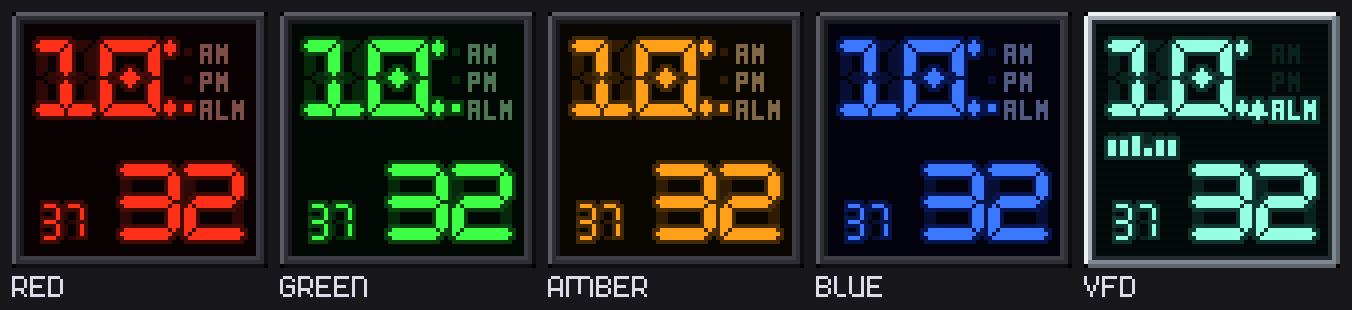
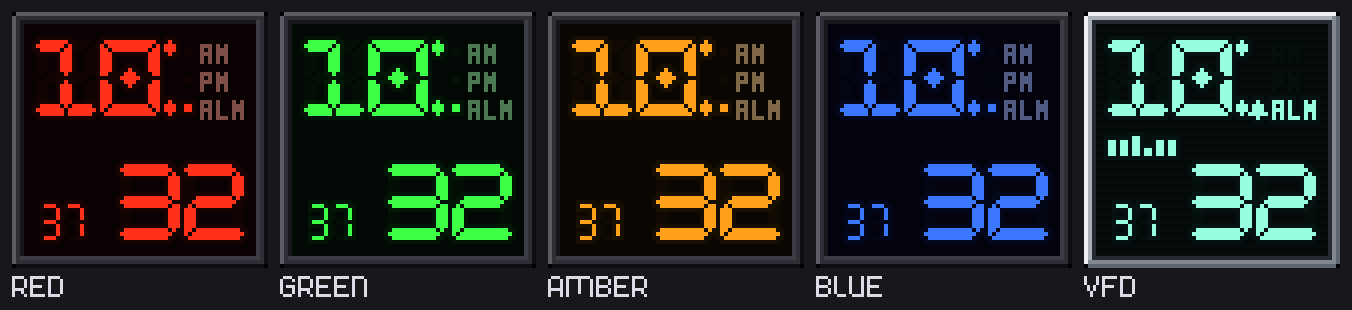
clock: the LED face's unlit segments and glow cut to a third (p054)
On the matrix the dark end is lifted, so the ghost 8 behind every digit competed with
the lit segments and the time was harder to read (the user's look at the panel). The
ghost and the glow of every style are a third of the first values (red ghost (46, 8,
6) -> (16, 3, 2), glow (80, 14, 6) -> (27, 5, 2); the VFD's ghost kept just above its
glass at (5, 15, 13)), in the mock and in face_led.cpp; the 17 references regenerated
and pixel-exact, the review images redrawn. Flashed and checked: faces_smoke 0
failures, the device's LED frame is the host's, heap 66 KB free.

diff --git a/firmware/tools/mock_clock_faces.py b/firmware/tools/mock_clock_faces.py
@@ -1176,11 +1176,13 @@ class SegStyle:
 
 
 STYLES = {
-    "red": SegStyle((10, 2, 2), None, (46, 8, 6), (255, 48, 24), (80, 14, 6), (128, 78, 72)),
-    "green": SegStyle((2, 8, 3), None, (8, 40, 12), (60, 255, 70), (12, 80, 18), (76, 120, 84)),
-    "amber": SegStyle((10, 6, 1), None, (48, 28, 4), (255, 160, 24), (84, 52, 6), (128, 104, 70)),
-    "blue": SegStyle((2, 3, 12), None, (8, 14, 52), (60, 120, 255), (10, 26, 96), (80, 90, 130)),
-    "vfd": SegStyle((5, 11, 11), (3, 8, 8), (10, 34, 30), (150, 255, 225), (20, 66, 58), None),
+    # The ghost and the glow are a third of the first design (p054, 2026-09-28): on the LED
+    # matrix the dark end is lifted and the unlit segments competed with the lit ones.
+    "red": SegStyle((10, 2, 2), None, (16, 3, 2), (255, 48, 24), (27, 5, 2), (128, 78, 72)),
+    "green": SegStyle((2, 8, 3), None, (3, 14, 4), (60, 255, 70), (4, 27, 6), (76, 120, 84)),
+    "amber": SegStyle((10, 6, 1), None, (16, 10, 2), (255, 160, 24), (28, 18, 2), (128, 104, 70)),
+    "blue": SegStyle((2, 3, 12), None, (3, 5, 18), (60, 120, 255), (4, 9, 32), (80, 90, 130)),
+    "vfd": SegStyle((5, 11, 11), (3, 8, 8), (5, 15, 13), (150, 255, 225), (7, 22, 20), None),
 }
 LED_PLASTIC, LED_LIGHT, LED_DARK, LED_INNER = (46, 46, 52), (92, 92, 100), (14, 14, 16), (24, 24, 28)
 CHROME_HI, CHROME, CHROME_LO, CHROME_EDGE = (236, 240, 244), (168, 174, 182), (96, 102, 110), (38, 42, 48)

diff --git a/firmware/components/p64_widgets/src/face_led.cpp b/firmware/components/p64_widgets/src/face_led.cpp
@@ -43,12 +43,14 @@ struct Style {
   Rgb label;  // the printed labels (LEDs)
   bool vfd;
 };
+// The ghost and the glow are a third of the first design (p054, 2026-09-28): the matrix
+// lifts the dark end and the unlit segments competed with the lit ones on the panel.
 constexpr Style kStyles[5] = {
-    {{10, 2, 2}, {10, 2, 2}, {46, 8, 6}, {255, 48, 24}, {80, 14, 6}, {128, 78, 72}, false},
-    {{2, 8, 3}, {2, 8, 3}, {8, 40, 12}, {60, 255, 70}, {12, 80, 18}, {76, 120, 84}, false},
-    {{10, 6, 1}, {10, 6, 1}, {48, 28, 4}, {255, 160, 24}, {84, 52, 6}, {128, 104, 70}, false},
-    {{2, 3, 12}, {2, 3, 12}, {8, 14, 52}, {60, 120, 255}, {10, 26, 96}, {80, 90, 130}, false},
-    {{5, 11, 11}, {3, 8, 8}, {10, 34, 30}, {150, 255, 225}, {20, 66, 58}, {0, 0, 0}, true},
+    {{10, 2, 2}, {10, 2, 2}, {16, 3, 2}, {255, 48, 24}, {27, 5, 2}, {128, 78, 72}, false},
+    {{2, 8, 3}, {2, 8, 3}, {3, 14, 4}, {60, 255, 70}, {4, 27, 6}, {76, 120, 84}, false},
+    {{10, 6, 1}, {10, 6, 1}, {16, 10, 2}, {255, 160, 24}, {28, 18, 2}, {128, 104, 70}, false},
+    {{2, 3, 12}, {2, 3, 12}, {3, 5, 18}, {60, 120, 255}, {4, 9, 32}, {80, 90, 130}, false},
+    {{5, 11, 11}, {3, 8, 8}, {5, 15, 13}, {150, 255, 225}, {7, 22, 20}, {0, 0, 0}, true},
 };
 
 // a towards b by v/255.

diff --git a/firmware/docs/PROGRESS.md b/firmware/docs/PROGRESS.md
@@ -881,8 +881,13 @@ shows where things stand. Spec: `docs/spec/p64-spec.md`. Design: `architecture.m
   sheets), so `image_bytes_max` was raised from 2.3 MB to 2.4 MB in `budgets.json`
   (the app partition is 8 MB); the private build is 2,716,368 bytes and has been over
   the public budget since the Divoom provider, `check_size.py` is CI's check on the
-  public build. Not checked: the user's eye on the panel (the glow's strength, the
-  colours of the filters, the meter).
+  public build. The user's eye on the panel (p054, the same day): the unlit segments
+  were too bright on the matrix, whose dark end is lifted, and competed with the lit
+  ones; the ghost and the glow of every style are now a third of the first values (red
+  ghost (46, 8, 6) -> (16, 3, 2), glow (80, 14, 6) -> (27, 5, 2); the VFD's ghost kept
+  just above its glass at (5, 15, 13)), references regenerated and exact, reflashed,
+  `faces_smoke` 0 failures again (the LED frame is the host's), heap 66 KB free. Still
+  for the eye: the filter tints of the four colours and the meter.
 - Remaining: the acceptance measurements that need instruments (camera at 240 fps, a
   power meter), a 12 h and a 24 h soak (`soak.py --minutes 720` when the device can be
   left alone), and the hands-on checks (taps, rotation direction, BOOT hold, the Photo

diff --git a/firmware/docs/design/clock-candidates/README.md b/firmware/docs/design/clock-candidates/README.md
@@ -101,7 +101,10 @@ for decoration only (an alarm has no meaning yet).
 
 Mocked up as two faces (LED and VFD) and approved on 2026-09-28 with two changes: the VFD
 became a style of the one face, and the highlight that swept along the top of the frame
-every eight seconds was dropped as artificial. The `led_style` setting picks one of five:
+every eight seconds was dropped as artificial; after the first look at the panel (p054)
+the ghost and the glow of every style were cut to a third, because the matrix lifts the
+dark end and the unlit segments competed with the lit ones (the review images show the
+final values). The `led_style` setting picks one of five:
 
 | Style | Look | Assets |
 |---|---|---|
